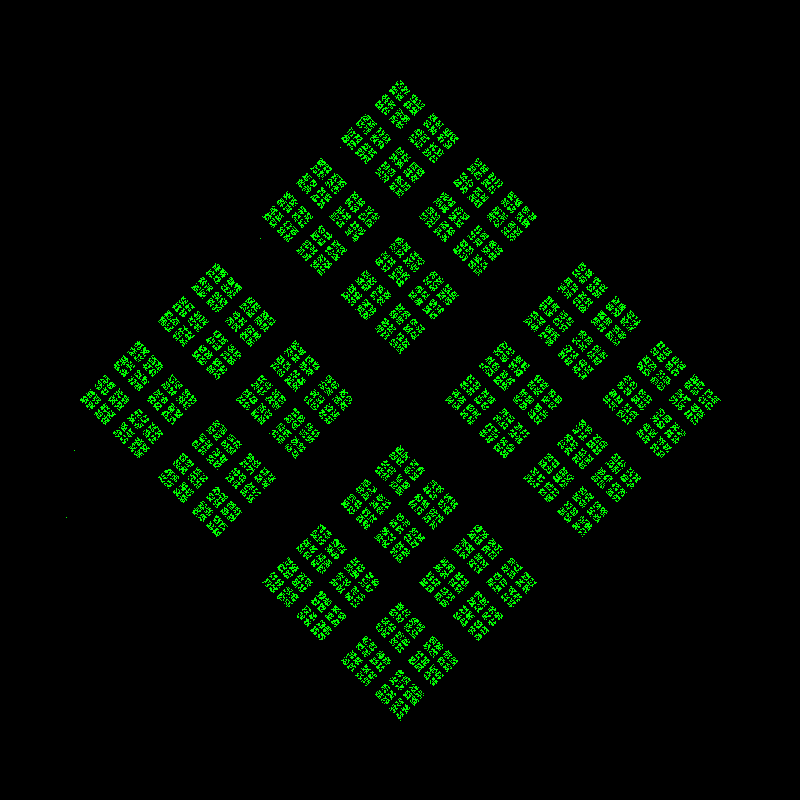
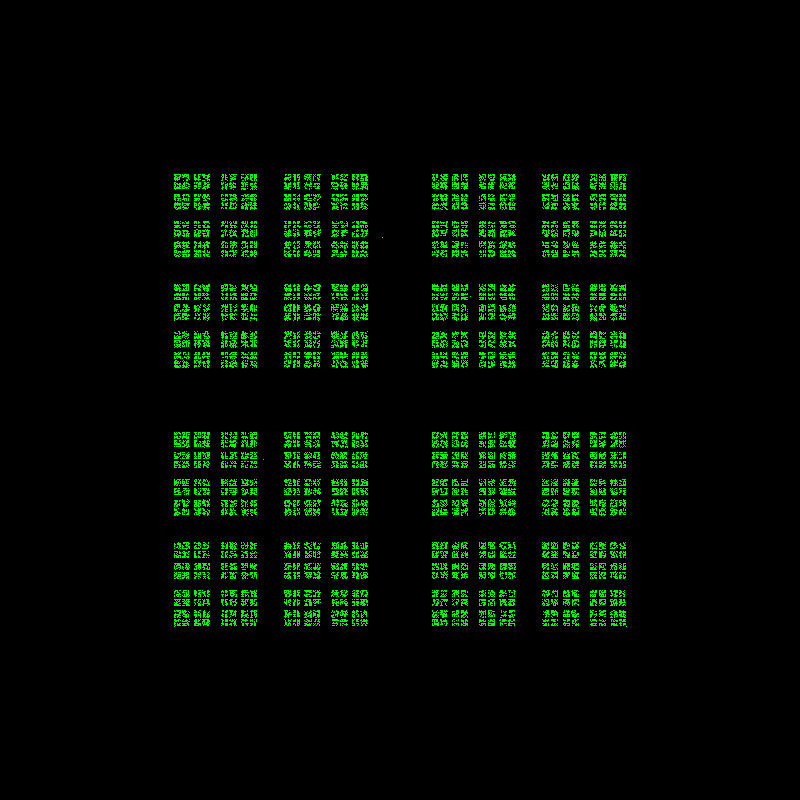
fix rendering for even values

Changed region(s): [[0.0938, 0.0938, 0.9062, 0.9062]]

diff --git a/main.py b/main.py
@@ -45,7 +45,10 @@ def chaos_game(image, *, num_points=3, d=0.5, num_iter=50000, include_center=Fal
     d_theta = 2 * pi / num_points
     points = []
     for i in range(num_points):
-        theta = d_theta * i
+        if num_points % 2 == 0:
+            theta = d_theta * (i + 0.5)
+        else:
+            theta = d_theta * i
         px = center_p[0] + int(radius * sin(theta))
         py = center_p[1] - int(radius * cos(theta))
         points.append((px, py))
